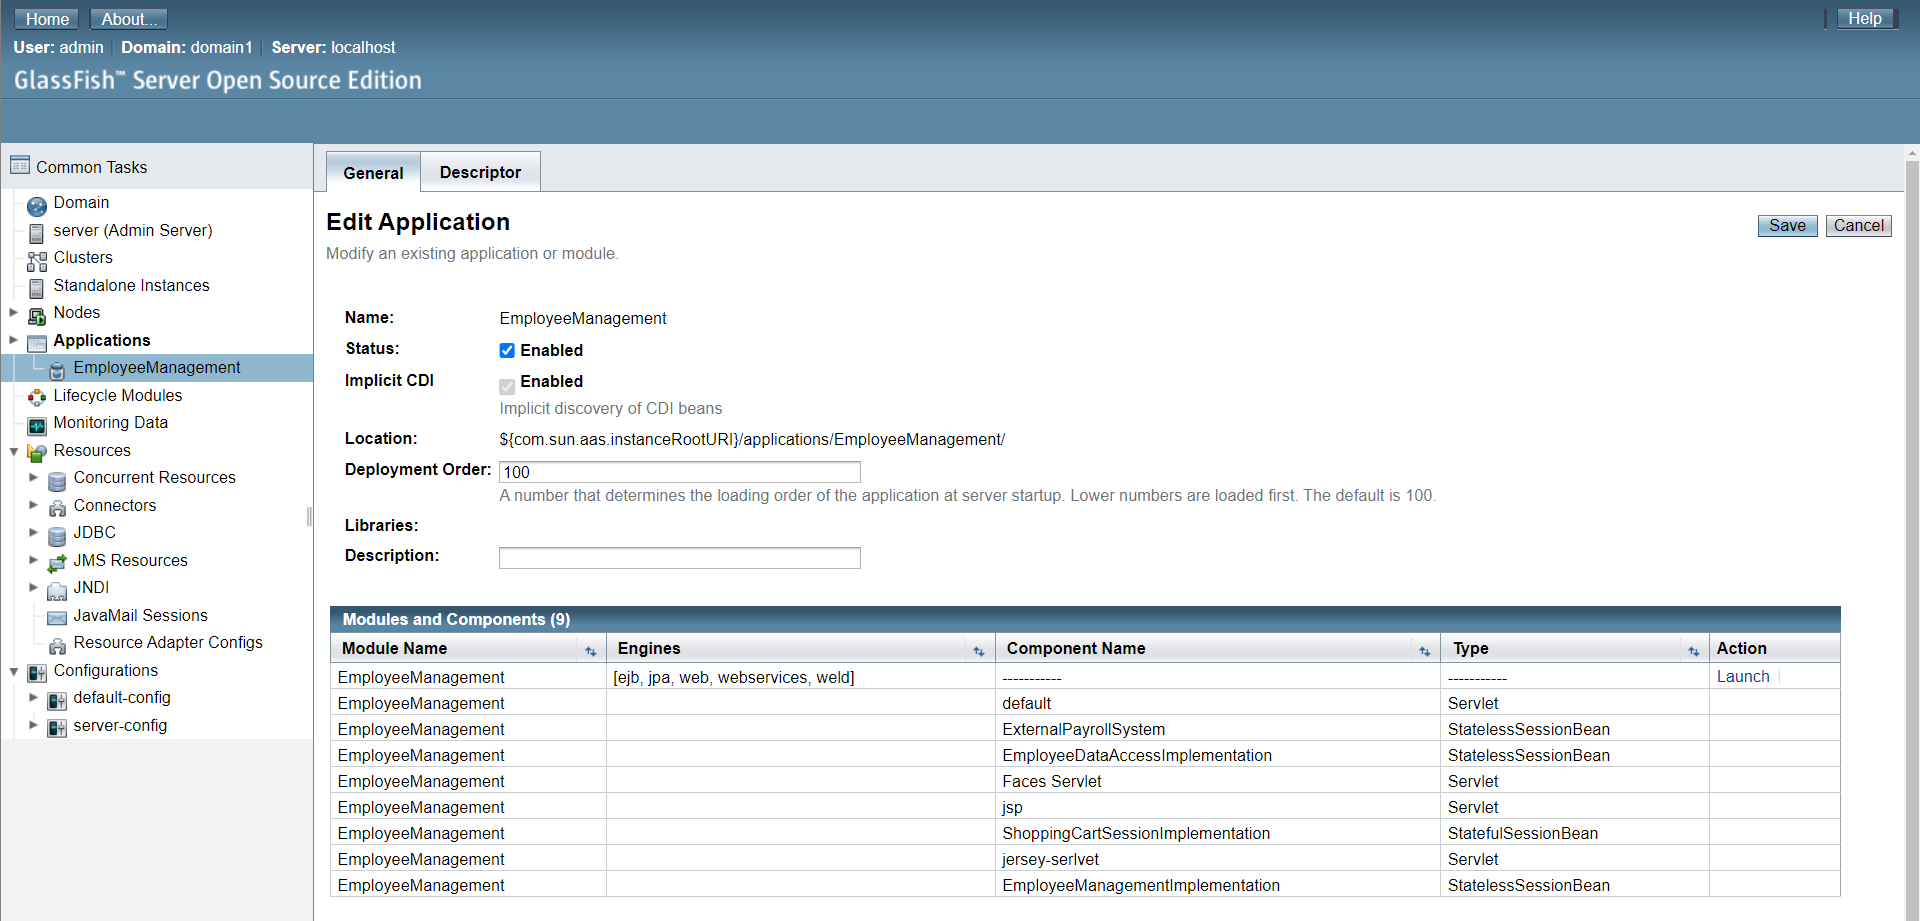
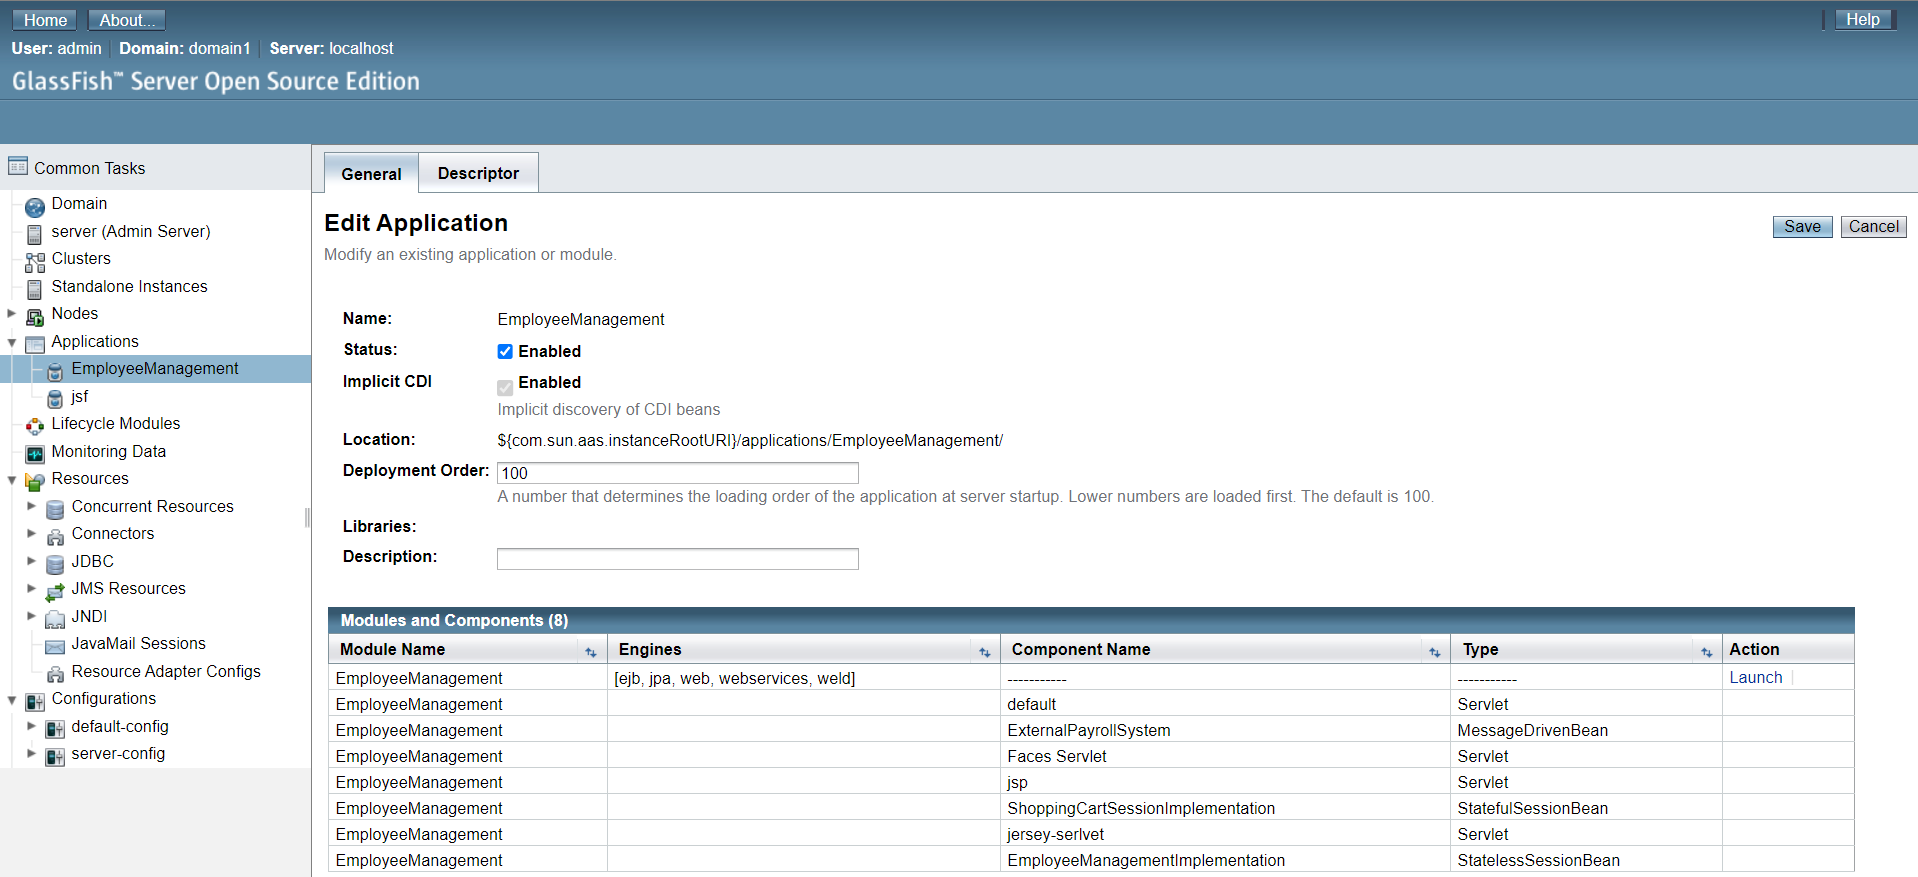
message driven bean

Changed region(s): [[0.0, 0.1539, 1.0, 1.0], [0.0, 0.0, 0.2461, 0.1231], [0.9536, 0.0, 0.9844, 0.0616]]

diff --git a/JavaEE/src/com/virtualpairprogrammers/staffmanagement/EmployeeManagementImplementation.java b/JavaEE/src/com/virtualpairprogrammers/staffmanagement/EmployeeManagementImplementation.java
@@ -11,6 +11,7 @@ import javax.annotation.security.RolesAllowed;
 import javax.ejb.*;
 import javax.inject.Inject;
 import javax.inject.Named;
+import javax.jms.*;
 import javax.jws.WebMethod;
 import javax.jws.WebService;
 import java.util.List;
@@ -22,16 +23,23 @@ import java.util.List;
 public class EmployeeManagementImplementation
         implements EmployeeManagementServiceRemote, EmployeeManagementServiceLocal {
 
-    // Java EE >= 5 => DI container
+    // weld container - implementation of CDI
     @Inject
     @ProductionDao
     private EmployeeDataAccess dao;
 
-    @EJB
-    private ExternalPayrollSystem payrollSystem;
+    // Java EE >= 5 => DI container
+//    @EJB
+//    private ExternalPayrollSystem payrollSystem;
 
     @Resource
     private SessionContext glassfish;   // this object is often called ctx
+
+    @Resource(mappedName = "jms/EmployeeManagementQueue")
+    private Queue queue;
+
+    @Resource(mappedName = "jms/ConnectionFactory")
+    private ConnectionFactory connectionFactory;
 
     @Override
 //    @RolesAllowed("users")
@@ -54,7 +62,27 @@ public class EmployeeManagementImplementation
 //    @RolesAllowed("admin")
     public void registerEmployee(Employee newEmployee) throws SystemUnavailableException {
         dao.insert(newEmployee);
-        payrollSystem.enrollEmployee(newEmployee);
+
+        try
+        {
+            Connection connection = connectionFactory.createConnection();
+
+            Session session = connection.createSession(false, 0);
+
+            MessageProducer messageProducer = session.createProducer(queue);
+
+            MapMessage message = session.createMapMessage();
+            message.setString("employeeName", newEmployee.getFirstName() + " " + newEmployee.getSurname());
+            message.setString("employeeJobRole", newEmployee.getJobRole());
+            message.setInt("employeeSalary", newEmployee.getSalary());
+
+            messageProducer.send(message);
+            connection.close();
+        }
+        catch (JMSException e)
+        {
+            throw new SystemUnavailableException();
+        }
     }
 
     @Override

diff --git a/JavaEE/src/com/virtualpairprogrammers/staffmanagement/ExternalPayrollSystem.java b/JavaEE/src/com/virtualpairprogrammers/staffmanagement/ExternalPayrollSystem.java
@@ -1,18 +1,23 @@
 package com.virtualpairprogrammers.staffmanagement;
 
-import com.virtualpairprogrammers.staffmanagement.domain.Employee;
+import javax.ejb.MessageDriven;
+import javax.jms.MapMessage;
+import javax.jms.Message;
+import javax.jms.MessageListener;
 
-import javax.ejb.Stateless;
+@MessageDriven(mappedName = "jms/EmployeeManagementQueue")
+public class ExternalPayrollSystem implements MessageListener {
+    @Override
+    public void onMessage(Message message) {
+        MapMessage msg = (MapMessage) message;
+        try {
+            String name = msg.getString("employeeName");
+            System.out.println("Employee has now been added");
 
-@Stateless
-public class ExternalPayrollSystem {
-    public void enrollEmployee(Employee newEmployee) throws SystemUnavailableException
-    {
-        if (Math.random() < 0.5)
-            throw new SystemUnavailableException();
-        else
-        {
-            // do some complex processing.
+            // улетит в DMQ ()
+//            throw new NullPointerException();
+        } catch (Exception e) {
+            throw new RuntimeException("Bad Message" + e);
         }
     }
 }

diff --git a/Message Sender/src/MessageSender.java b/Message Sender/src/MessageSender.java
@@ -15,7 +15,7 @@ public class MessageSender {
 
             connection = cf.createConnection();
 
-            Session session = connection.createSession(false, Session.AUTO_ACKNOWLEDGE);
+            Session session = connection.createSession(false, Session.AUTO_ACKNOWLEDGE /*излишний параметр*/);
 
             MessageProducer messageProducer = session.createProducer(queue);
 
